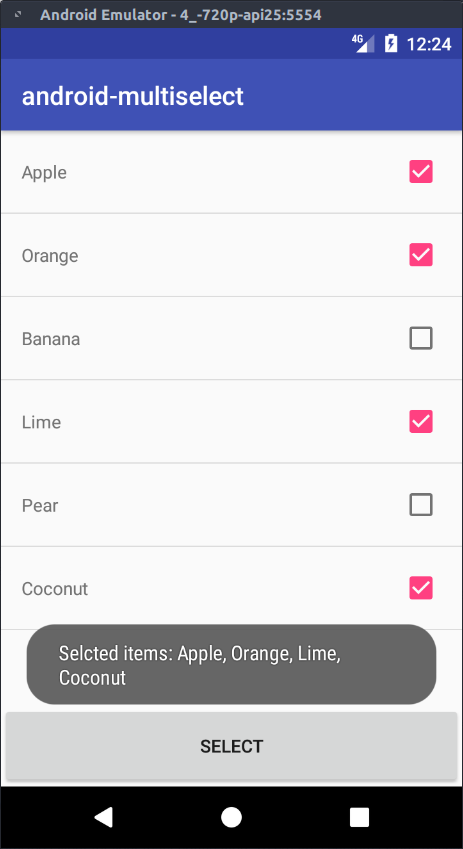
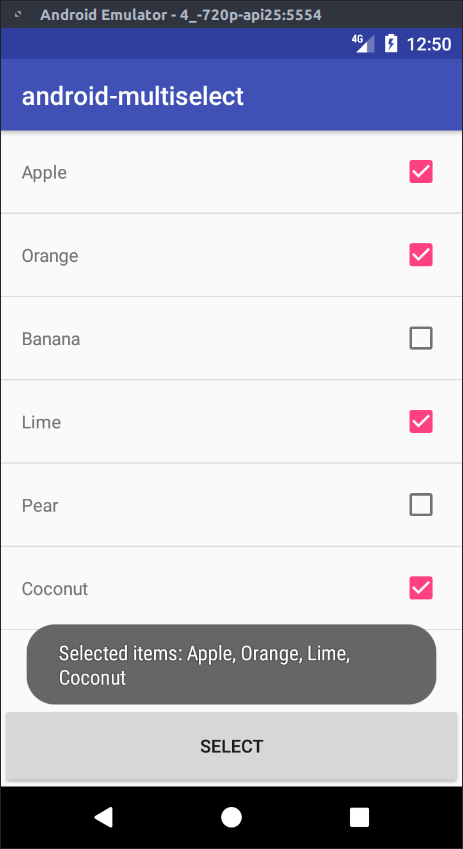
Fix typo

Changed region(s): [[0.1814, 0.735, 0.7559, 0.7962], [0.9374, 0.0306, 0.9676, 0.0612]]

diff --git a/app/src/main/java/com/example/sro5h/android_multiselect/MainActivity.java b/app/src/main/java/com/example/sro5h/android_multiselect/MainActivity.java
@@ -38,7 +38,7 @@ public class MainActivity extends AppCompatActivity implements Button.OnClickLis
         switch (view.getId()) {
             case R.id.button:
                 List<String> selected = getSelectedItems();
-                String logString = "Selcted items: " + TextUtils.join(", ", selected);
+                String logString = "Selected items: " + TextUtils.join(", ", selected);
 
                 Log.d("MainActivity", logString);
                 Toast.makeText(this, logString, Toast.LENGTH_SHORT).show();
